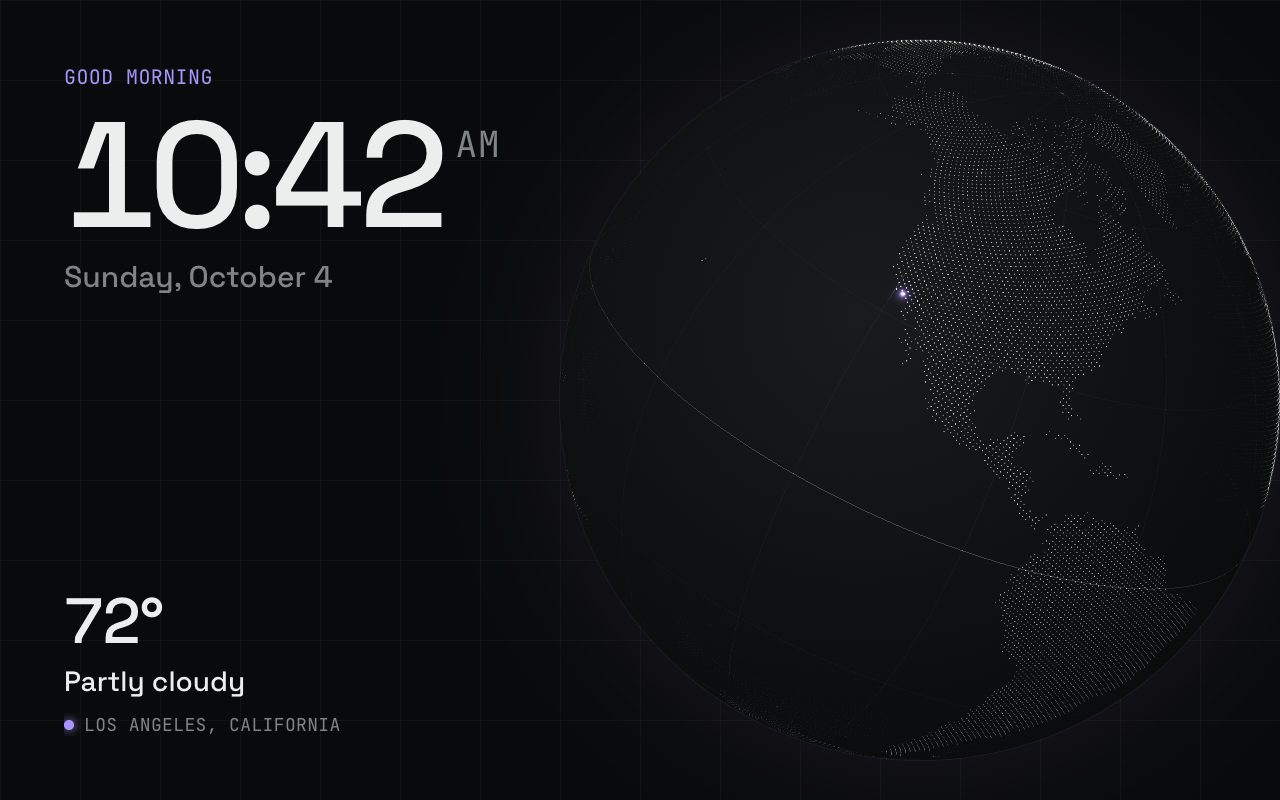
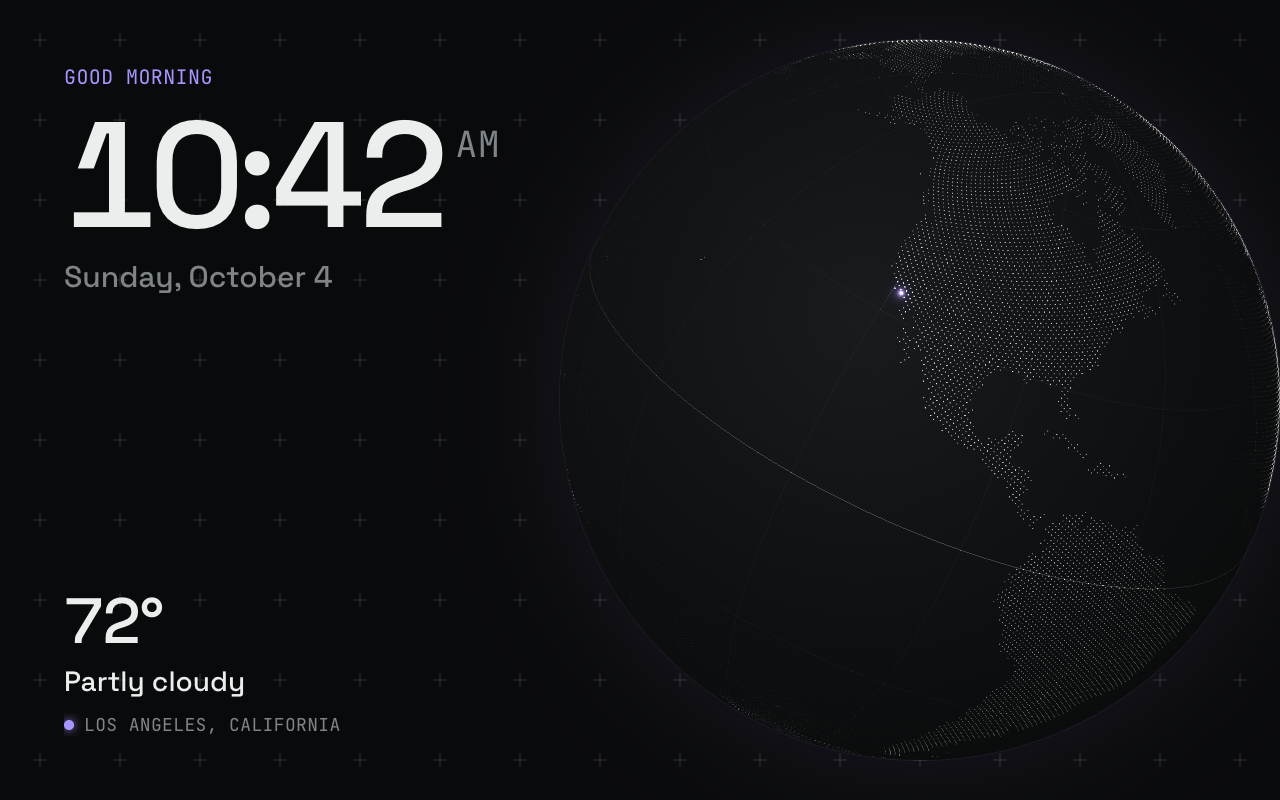
examples: Globe background uses + marks instead of grid lines

diff --git a/examples/globe/screen.html b/examples/globe/screen.html
@@ -22,15 +22,9 @@
     text-transform: uppercase;
     letter-spacing: 0.02em;
   }
-  /* Faint grid behind everything. */
-  .gb-grid {
-    position: absolute;
-    inset: 0;
-    background-image:
-      linear-gradient(rgba(255, 255, 255, 0.03) 1px, transparent 1px),
-      linear-gradient(90deg, rgba(255, 255, 255, 0.03) 1px, transparent 1px);
-    background-size: 80px 80px;
-  }
+  /* Small "+" marks every 80px behind everything, like the reseau crosses on NASA photos. */
+  .gb-marks { position: absolute; inset: 0; width: 1280px; height: 800px; }
+  .gb-marks path { stroke: rgba(255, 255, 255, 0.16); stroke-width: 1; }
   /* Dark sphere under the dots, with a soft rim of the accent color. */
   .gb-sphere {
     position: absolute;
@@ -80,7 +74,14 @@
 </style>
 
 <main class="gb">
-  <div class="gb-grid"></div>
+  <svg class="gb-marks" width="1280" height="800" aria-hidden="true">
+    <defs>
+      <pattern id="gb-cross" x="0" y="0" width="80" height="80" patternUnits="userSpaceOnUse">
+        <path d="M40 33.5v13M33.5 40h13"></path>
+      </pattern>
+    </defs>
+    <rect width="1280" height="800" fill="url(#gb-cross)"></rect>
+  </svg>
   <div class="gb-sphere"></div>
   <canvas id="gb-canvas" width="800" height="800"></canvas>
 

diff --git a/examples/globe/README.md b/examples/globe/README.md
@@ -53,4 +53,6 @@ Settings at the top of the script:
   angle, so it's light on the CPU. The latitude and longitude lines are drawn the same way.
 - **The land map** is a 360 × 180 grid of 1° cells (1 bit each, base64 in the script, about 11 KB),
   rasterized from [Natural Earth](https://www.naturalearthdata.com/)'s 1:110m land polygons (public domain).
+- The background's "+" marks (every 80px, like the reseau crosses on NASA photos) are a static inline SVG
+  pattern; change their color in the `.gb-marks path` rule.
 - Needs WebGL. Without it the canvas stays empty and the dark sphere, time and weather still show.
